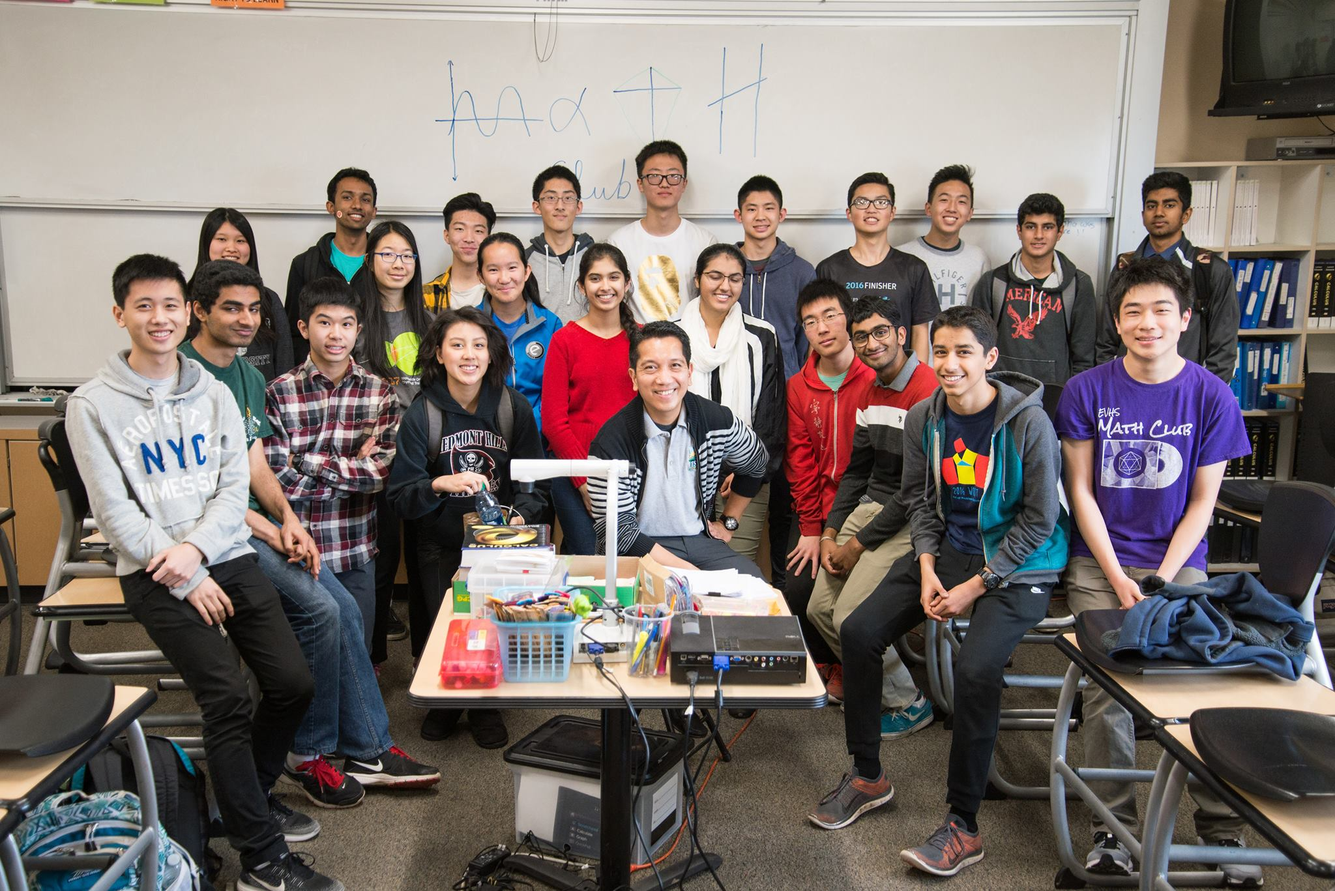
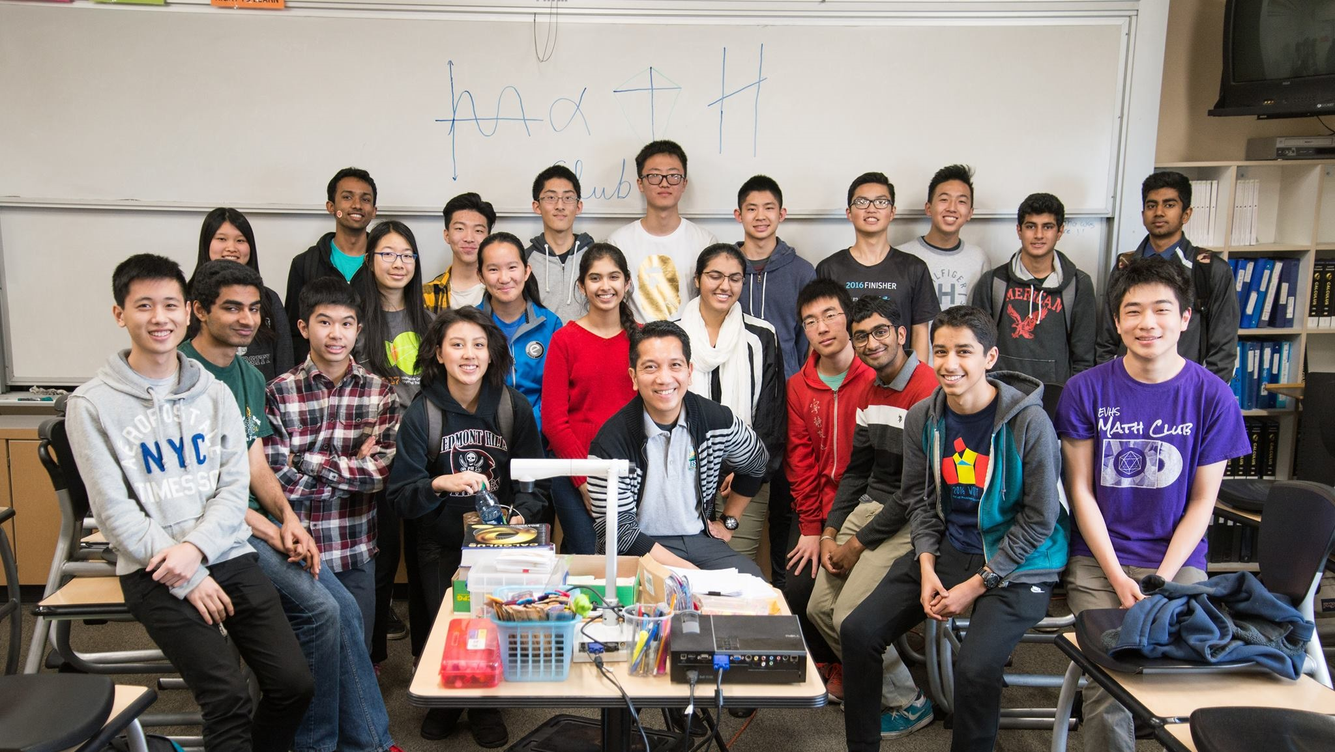
fixed scrollbar issue, added homepage content

diff --git a/index.html b/index.html
@@ -57,7 +57,11 @@
         </nav>
       </div>
       <main class="mdl-layout__content">
-        <img src="images/group-photo.jpg" width="65%" style="margin: auto; display: block">
+        <div style="text-align: center">
+          <h2>Welcome to the Evergreen Valley Math Club website!</h2>
+          <h3>The site is currently under construction</h3>
+        </div>
+        <img src="images/group-photo.jpg" width="75%" style="margin: auto; display: block">
       </main>
     </div>
     <script src="https://code.getmdl.io/1.3.0/material.min.js"></script>

diff --git a/css/main.css b/css/main.css
@@ -19,5 +19,8 @@
 }
 
 main {
-  margin: 30px;
+  padding-top: 20px;
+  padding-left: 30px;
+  padding-bottom: 20px;
+  padding-right: 30px;
 }
